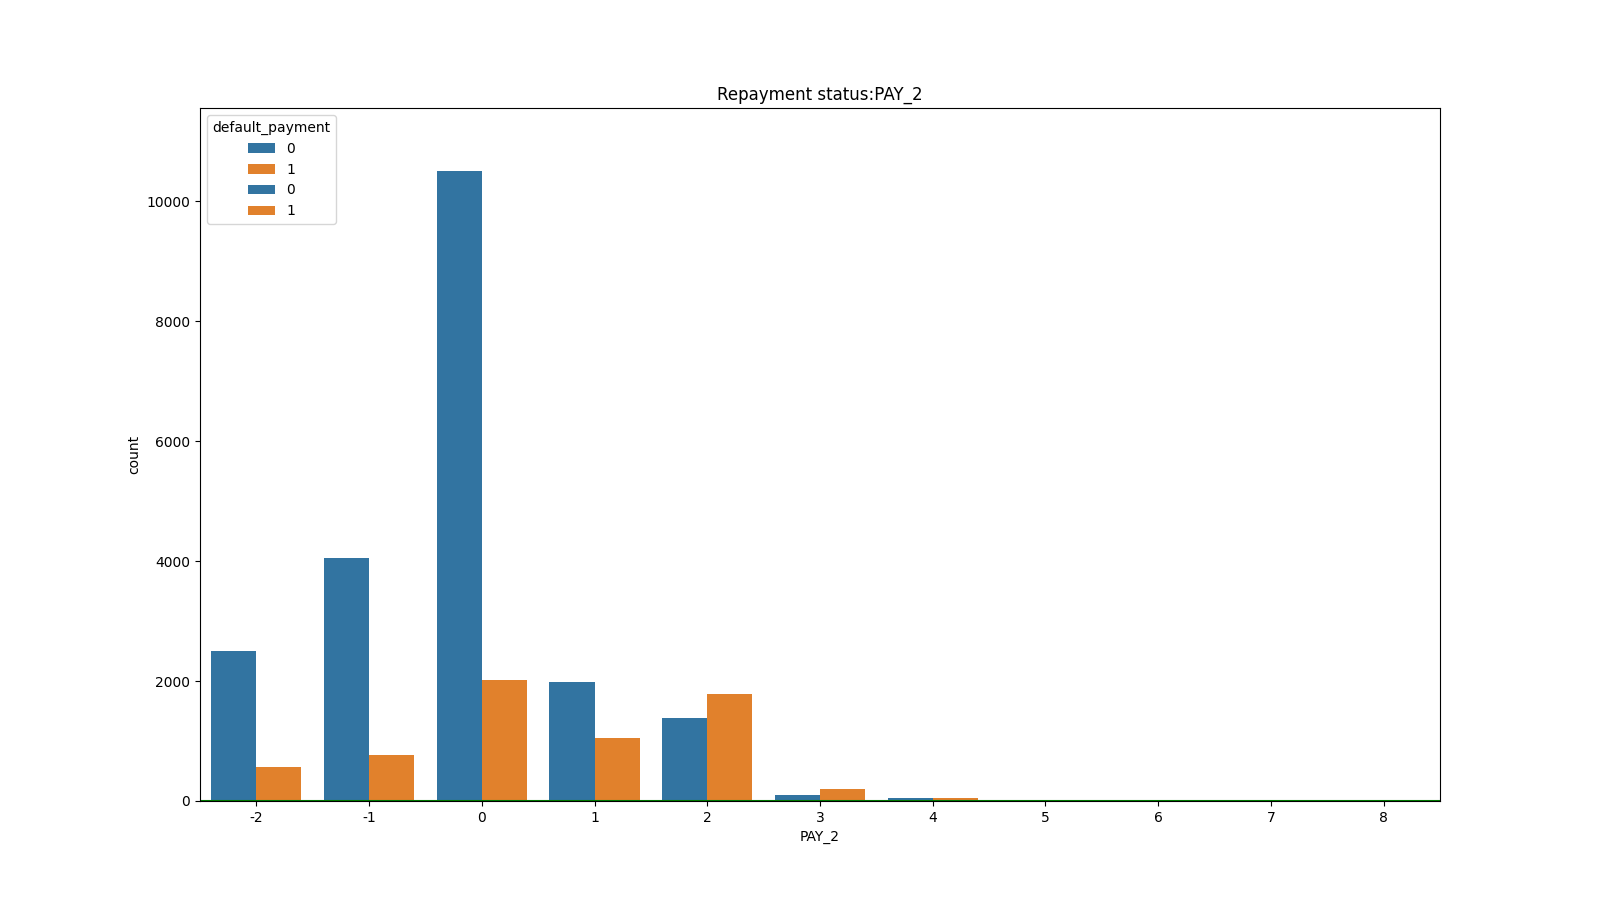
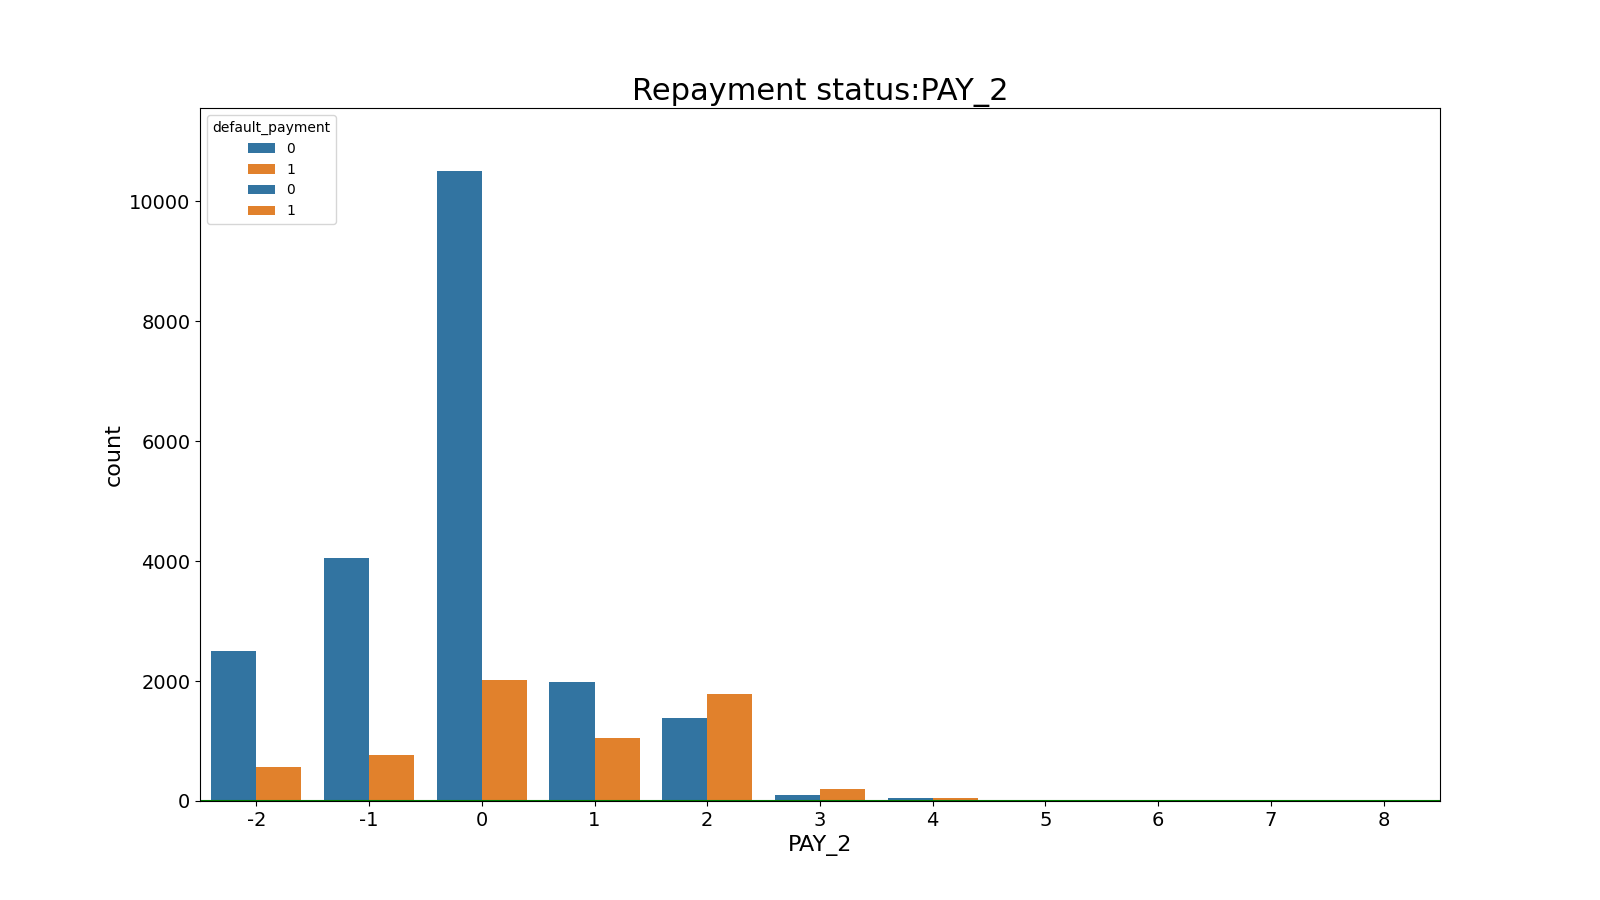
fixed eda figure font sizes

diff --git a/scripts/eda.py b/scripts/eda.py
@@ -28,17 +28,26 @@ parser.add_argument('output_path', type=str,
 
 args = parser.parse_args()
 
+
+
 def make_heatmap(input_path, output_path):
 
     train_df = pd.read_csv(input_path,sep = ",")
-    plt.figure(figsize=(25,25))
+    plt.figure(figsize=(20,20))
     sns.heatmap(train_df.corr(),cbar=True,annot=True,cmap='Reds')
+    plt.yticks(fontsize=16)
+    plt.xticks(fontsize=16)
     plt.savefig(output_path)
 
 def make_limit_dist(input_path, output_path1):
     train_df = pd.read_csv(input_path,sep = ",")
     plt.figure(figsize = (16,9))
     sns.distplot(train_df['LIMIT_BAL'],kde=True,bins=50, rug = True, color="green")
+    plt.title("Limit Balance Distribution", fontsize = 20)
+    plt.yticks(fontsize=16)
+    plt.xticks(fontsize=16)
+    plt.xlabel("Limit Balance", fontsize=16)
+    plt.ylabel("Density", fontsize=16)
     plt.savefig(output_path1) 
 
 
@@ -47,6 +56,10 @@ def make_repayment_hist(input_path, output_path22):
     for column in train_df[["PAY_0", "PAY_2", "PAY_3", "PAY_4", "PAY_5", "PAY_6"]]:
         count_plot(data=train_df, x=column, name ="Repayment status:" + column)
         #fig = plot.fig
+        #plt.rcParams.update({'font.size': 22})
+        plt.rc('figure', titlesize=16)
+        plt.xticks(fontsize=14)
+        plt.yticks(fontsize=14)
       
         output_path2 = output_path22+ str(column) + ".png"
         plt.savefig(output_path2) 

diff --git a/src/function_count_plot.py b/src/function_count_plot.py
@@ -20,7 +20,9 @@ import seaborn as sns
 
 def count_plot(data, x, name):
     fig = sns.countplot(data=data, hue="default_payment", x=x)
-    plt.xlabel(str(x))
-    plt.ylabel("count")
-    plt.title(name)
+    plt.xlabel(str(x), fontsize=16)
+    plt.ylabel("count", fontsize=16)
+    plt.title(name, fontsize = 22)
+    plt.yticks(fontsize=16)
+    plt.xticks(fontsize=16)
     return fig
